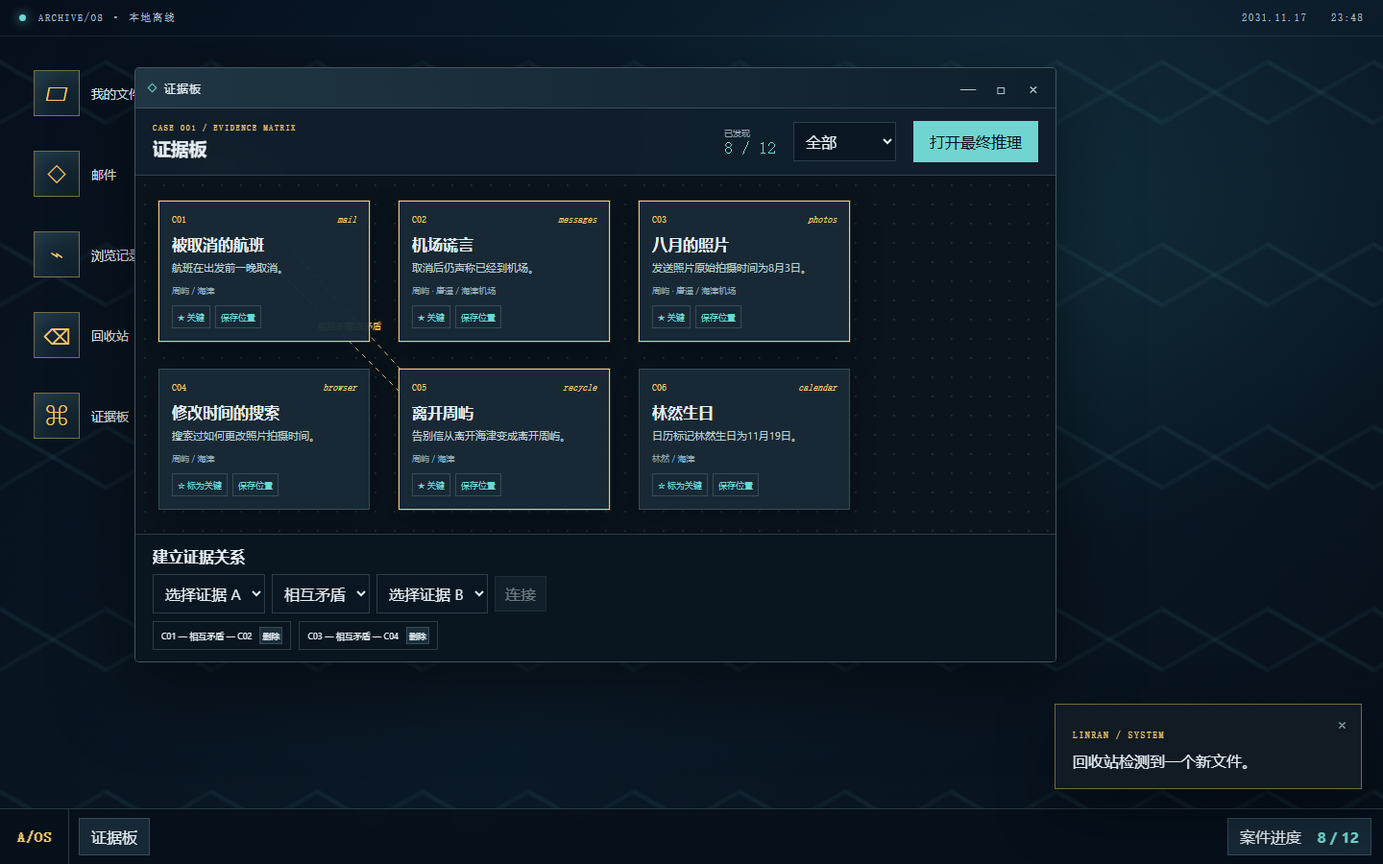
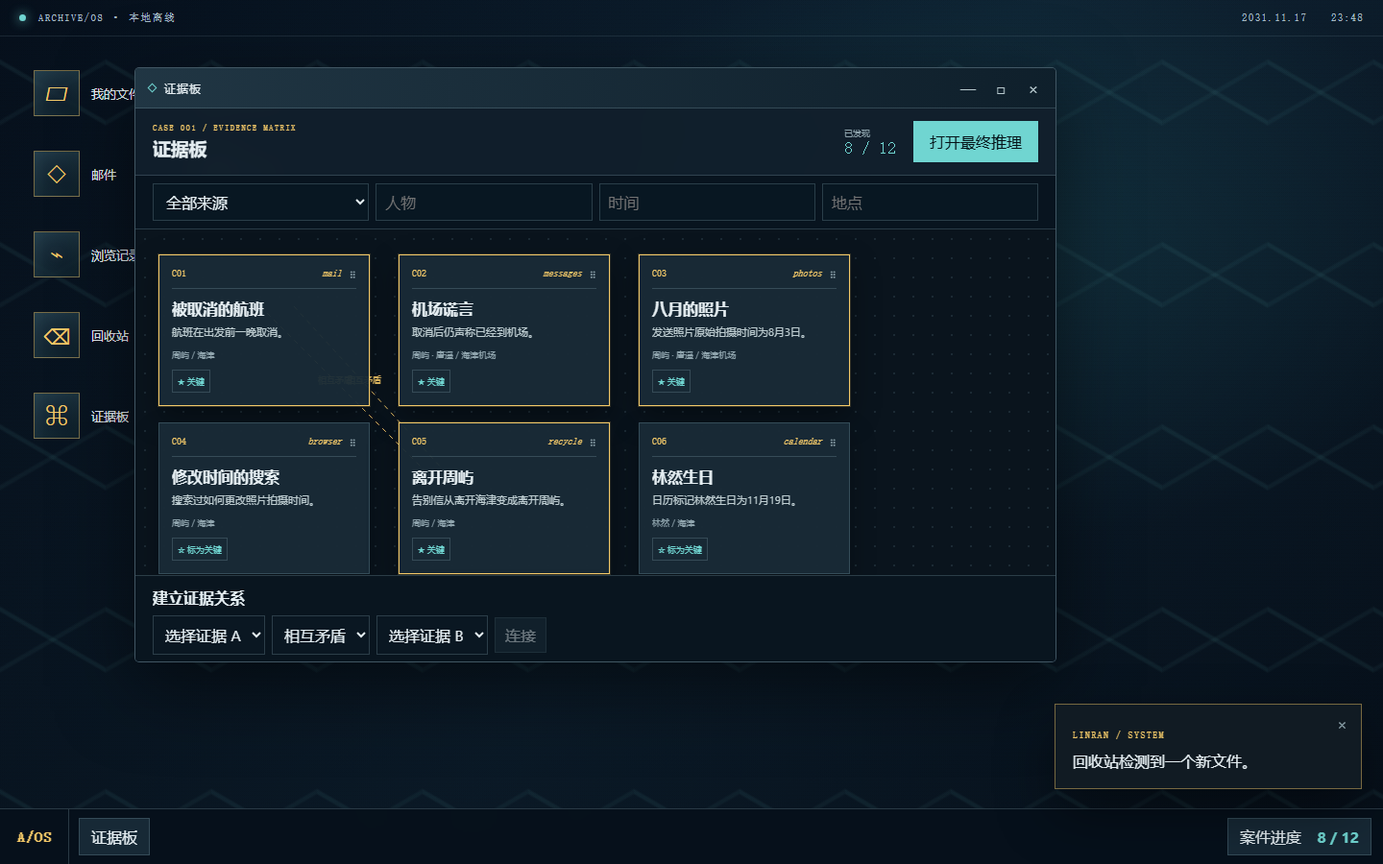
feat: complete evidence interactions and filters

Changed region(s): [[0.0938, 0.2178, 0.625, 0.7467], [0.5625, 0.1556, 0.6562, 0.1867], [0.6875, 0.1556, 0.75, 0.1867]]

diff --git a/src/features/evidence-board/EvidenceBoardApp.tsx b/src/features/evidence-board/EvidenceBoardApp.tsx
@@ -1,14 +1,18 @@
-import { useMemo, useState } from 'react'
+import { useEffect, useMemo, useState } from 'react'
 import type { EvidenceRelation } from '../../cases/types'
 import { caseDefinition } from '../../cases/case-001/case'
 import { useGameStore } from '../../store/gameStore'
+import { EvidenceCard } from './EvidenceCard'
+import { filterEvidenceClues } from './evidenceFilters'
 
 export function EvidenceBoardApp() {
   const { discoveredClueIds, pinnedClueIds, evidenceRelations, togglePinned, addRelation, removeRelation, setCardPosition } = useGameStore()
-  const [source, setSource] = useState('全部'); const [from, setFrom] = useState(''); const [to, setTo] = useState(''); const [type, setType] = useState<EvidenceRelation['type']>('相互矛盾'); const [deducing, setDeducing] = useState(false)
-  const clues = useMemo(() => caseDefinition.clues.filter((clue) => discoveredClueIds.includes(clue.id) && (source === '全部' || clue.source === source)), [discoveredClueIds, source])
-  return <div className="evidence-app" data-testid="evidence-board"><header className="evidence-header"><div><p>CASE 001 / EVIDENCE MATRIX</p><h3>证据板</h3></div><div className="evidence-progress"><span>已发现</span><strong>{discoveredClueIds.length} / 12</strong></div><select aria-label="来源筛选" value={source} onChange={(event) => setSource(event.target.value)}><option>全部</option>{['mail', 'messages', 'photos', 'browser', 'calendar', 'recycle', 'logs', 'files'].map((item) => <option key={item}>{item}</option>)}</select><button className="primary-button" disabled={discoveredClueIds.length < 6} onClick={() => setDeducing(true)}>{discoveredClueIds.length < 6 ? `还需 ${6 - discoveredClueIds.length} 条线索` : '打开最终推理'}</button></header>
-    <div className="evidence-workspace"><svg className="relation-lines" aria-hidden="true">{evidenceRelations.map((relation, index) => <g key={relation.id}><line x1={130 + index * 35} y1="80" x2={300 + index * 20} y2="250" /><text x={190 + index * 30} y="160">{relation.type}</text></g>)}</svg>{clues.map((clue, index) => <article className={`evidence-card ${pinnedClueIds.includes(clue.id) ? 'pinned' : ''}`} key={clue.id} style={{ left: 24 + (index % 3) * 250, top: 26 + Math.floor(index / 3) * 175 }}><div><span>{clue.id}</span><em>{clue.source}</em></div><h4>{clue.title}</h4><p>{clue.summary}</p><small>{clue.people.join(' · ')} / {clue.places.join(' · ')}</small><div className="card-actions"><button aria-label={`标记 ${clue.id} 为关键证据`} onClick={() => togglePinned(clue.id)}>{pinnedClueIds.includes(clue.id) ? '★ 关键' : '☆ 标为关键'}</button><button onClick={() => setCardPosition(clue.id, index * 10, index * 8)}>保存位置</button></div></article>)}</div>
+  const [filters, setFilters] = useState({ source: '', person: '', time: '', place: '' }); const [from, setFrom] = useState(''); const [to, setTo] = useState(''); const [type, setType] = useState<EvidenceRelation['type']>('相互矛盾'); const [deducing, setDeducing] = useState(false)
+  const positions = useGameStore((state) => state.evidenceCardPositions)
+  const clues = useMemo(() => filterEvidenceClues(caseDefinition.clues.filter((clue) => discoveredClueIds.includes(clue.id)), filters), [discoveredClueIds, filters])
+  return <div className="evidence-app" data-testid="evidence-board"><header className="evidence-header"><div><p>CASE 001 / EVIDENCE MATRIX</p><h3>证据板</h3></div><div className="evidence-progress"><span>已发现</span><strong>{discoveredClueIds.length} / 12</strong></div><button className="primary-button" disabled={discoveredClueIds.length < 6} onClick={() => setDeducing(true)}>{discoveredClueIds.length < 6 ? `还需 ${6 - discoveredClueIds.length} 条线索` : '打开最终推理'}</button></header>
+    <div className="evidence-filters"><select aria-label="来源筛选" value={filters.source} onChange={(event) => setFilters((value) => ({ ...value, source: event.target.value }))}><option value="">全部来源</option>{['mail', 'messages', 'photos', 'browser', 'calendar', 'recycle', 'logs', 'files'].map((item) => <option key={item}>{item}</option>)}</select><input aria-label="人物筛选" placeholder="人物" value={filters.person} onChange={(event) => setFilters((value) => ({ ...value, person: event.target.value }))}/><input aria-label="时间筛选" placeholder="时间" value={filters.time} onChange={(event) => setFilters((value) => ({ ...value, time: event.target.value }))}/><input aria-label="地点筛选" placeholder="地点" value={filters.place} onChange={(event) => setFilters((value) => ({ ...value, place: event.target.value }))}/></div>
+    <div className="evidence-workspace"><svg className="relation-lines" aria-hidden="true">{evidenceRelations.map((relation, index) => <g key={relation.id}><line x1={130 + index * 35} y1="80" x2={300 + index * 20} y2="250" /><text x={190 + index * 30} y="160">{relation.type}</text></g>)}</svg>{clues.map((clue, index) => <EvidenceCard key={clue.id} clue={clue} pinned={pinnedClueIds.includes(clue.id)} position={positions[clue.id] ?? { x: 24 + (index % 3) * 250, y: 26 + Math.floor(index / 3) * 175 }} onToggle={() => togglePinned(clue.id)} onMove={(x, y) => setCardPosition(clue.id, x, y)} />)}</div>
     <section className="relation-builder"><h4>建立证据关系</h4><select aria-label="关系起点" value={from} onChange={(event) => setFrom(event.target.value)}><option value="">选择证据 A</option>{discoveredClueIds.map((id) => <option key={id}>{id}</option>)}</select><select aria-label="关系类型" value={type} onChange={(event) => setType(event.target.value as EvidenceRelation['type'])}>{['相互矛盾', '相互支持', '时间先后', '同一人物'].map((item) => <option key={item}>{item}</option>)}</select><select aria-label="关系终点" value={to} onChange={(event) => setTo(event.target.value)}><option value="">选择证据 B</option>{discoveredClueIds.map((id) => <option key={id}>{id}</option>)}</select><button disabled={!from || !to || from === to} onClick={() => { addRelation(from, to, type); setFrom(''); setTo('') }}>连接</button><ul>{evidenceRelations.map((relation) => <li key={relation.id}><span>{relation.from} — {relation.type} — {relation.to}</span><button aria-label={`删除关系 ${relation.from} ${relation.to}`} onClick={() => removeRelation(relation.id)}>删除</button></li>)}</ul></section>
     {deducing && <DeductionDialog onClose={() => setDeducing(false)} />}
   </div>
@@ -17,8 +21,8 @@ export function EvidenceBoardApp() {
 function DeductionDialog({ onClose }: { onClose: () => void }) {
   const { discoveredClueIds, pinnedClueIds, evidenceRelations, deductionResult, submit } = useGameStore()
   const [answers, setAnswers] = useState<Record<string, string>>({}); const [note, setNote] = useState(''); const [result, setResult] = useState(deductionResult)
+  useEffect(() => { const close = (event: KeyboardEvent) => { if (event.key === 'Escape') onClose() }; window.addEventListener('keydown', close); return () => window.removeEventListener('keydown', close) }, [onClose])
   const contradictionCount = evidenceRelations.filter((relation) => relation.type === '相互矛盾').length
-  if (result) return <div className="modal-backdrop" role="dialog" aria-modal="true" aria-label="推理结果"><article className="deduction-card result-card"><button className="modal-close" aria-label="关闭推理结果" onClick={onClose}>×</button><p className="eyebrow">ARCHIVE RECONSTRUCTION</p><div className="score-ring"><strong>{result.score}</strong><span>/100</span></div><h2>{result.level}</h2><div className="score-breakdown"><span>核心判断 {result.answerScore}/65</span><span>证据覆盖 {result.evidenceScore}/30</span><span>矛盾关系 {result.relationScore}/5</span></div><p>发现线索：{discoveredClueIds.length}/12 · 关键证据：{pinnedClueIds.join('、') || '未选择'}</p>{result.note && <blockquote>{result.note}</blockquote>}<div className="ending"><p>正在核对系统日志……</p><p>检测到新的本地会话。</p><p>用户 LINRAN 登录成功。</p><strong>{caseDefinition.ending}</strong></div></article></div>
+  if (result) return <div className="modal-backdrop" role="dialog" aria-modal="true" aria-label="推理结果"><article className="deduction-card result-card"><button className="modal-close" aria-label="关闭推理结果" onClick={onClose}>×</button><p className="eyebrow">ARCHIVE RECONSTRUCTION</p><div className="score-ring"><strong>{result.score}</strong><span>/100</span></div><h2>{result.level}</h2><div className="score-breakdown"><span>核心判断 {result.answerScore}/65</span><span>证据覆盖 {result.evidenceScore}/30</span><span>矛盾关系 {result.relationScore}/5</span></div><p>发现线索：{discoveredClueIds.length}/12 · 核心线索：{discoveredClueIds.filter((id) => caseDefinition.coreEvidenceIds.includes(id)).length}/{caseDefinition.coreEvidenceIds.length}</p><p>玩家选择：{pinnedClueIds.join('、') || '未选择'} · 忽略的关键线索：{caseDefinition.coreEvidenceIds.filter((id) => !pinnedClueIds.includes(id)).join('、') || '无'}</p>{result.note && <blockquote>{result.note}</blockquote>}<div className="ending"><p>正在核对系统日志……</p><p>检测到新的本地会话。</p><p>用户 LINRAN 登录成功。</p><strong>{caseDefinition.ending}</strong></div></article></div>
   return <div className="modal-backdrop" role="dialog" aria-modal="true" aria-label="最终推理"><form className="deduction-card" onSubmit={(event) => { event.preventDefault(); const ordered = caseDefinition.questions.map((question) => answers[question.id] ?? ''); setResult(submit(ordered, note)) }}><button type="button" className="modal-close" aria-label="关闭最终推理" onClick={onClose}>×</button><p className="eyebrow">FINAL DEDUCTION</p><h2>重建最后一次登录</h2>{caseDefinition.questions.map((question, questionIndex) => <fieldset key={question.id}><legend><span>0{questionIndex + 1}</span>{question.prompt}</legend>{question.options.map((option) => <label key={option.id}><input required type="radio" name={question.id} value={option.id} checked={answers[question.id] === option.id} onChange={() => setAnswers((state) => ({ ...state, [question.id]: option.id }))} />{option.label}</label>)}</fieldset>)}<section className="deduction-evidence"><h3>你的关键证据</h3><p>{pinnedClueIds.length}/6：{pinnedClueIds.join('、') || '请先在证据板标记关键证据'}</p><p>矛盾关系：{contradictionCount} 组</p></section><label className="note-field">个人推理（只保存在本地）<textarea value={note} onChange={(event) => setNote(event.target.value)} /></label><button className="primary-button" disabled={!pinnedClueIds.length || contradictionCount < 1}>提交推理</button></form></div>
 }
-

diff --git a/src/features/apps/ArchiveApps.tsx b/src/features/apps/ArchiveApps.tsx
@@ -1,11 +1,11 @@
-import { useMemo, useState } from 'react'
+import { useEffect, useMemo, useState } from 'react'
 import { caseDefinition } from '../../cases/case-001/case'
 import { useGameStore } from '../../store/gameStore'
 
 export function PhotosApp() {
-  const [index, setIndex] = useState(0); const [metadata, setMetadata] = useState(false); const [zoom, setZoom] = useState(1)
-  const photo = caseDefinition.photos[index]!; const investigate = useGameStore((state) => state.investigate)
-  return <div className="photo-app"><div className="photo-stage"><img src={photo.image} alt="虚构海津机场候机区" style={{ transform: `scale(${zoom})` }} /></div><aside><p className="document-meta">{photo.title}</p><div className="toolbar"><button onClick={() => { setIndex((index - 1 + 2) % 2); setMetadata(false) }}>上一张</button><button onClick={() => { setIndex((index + 1) % 2); setMetadata(false) }}>下一张</button><button onClick={() => setZoom(Math.max(.7, zoom - .15))}>−</button><button onClick={() => setZoom(Math.min(1.8, zoom + .15))}>＋</button></div><button className="primary-button" onClick={() => { setMetadata(true); investigate({ type: 'VIEW_METADATA', itemId: photo.id }) }}>查看元数据</button>{metadata && <dl className="metadata"><dt>原始拍摄</dt><dd>{photo.metadata.capturedAt}</dd><dt>导出文件</dt><dd>{photo.metadata.exportedAt}</dd><dt>设备</dt><dd>{photo.metadata.camera}</dd></dl>}</aside></div>
+  const [index, setIndex] = useState(0); const [metadata, setMetadata] = useState(false); const [properties, setProperties] = useState(false); const [zoom, setZoom] = useState(1)
+  const photo = caseDefinition.photos[index]!; const investigate = useGameStore((state) => state.investigate); const togglePinned = useGameStore((state) => state.togglePinned); const discovered = useGameStore((state) => state.discoveredClueIds); const pinned = useGameStore((state) => state.pinnedClueIds)
+  return <div className="photo-app"><div className="photo-stage"><img src={photo.image} alt="虚构海津机场候机区" style={{ transform: `scale(${zoom})` }} /></div><aside><p className="document-meta">{photo.title}</p><div className="toolbar"><button onClick={() => { setIndex((index - 1 + 2) % 2); setMetadata(false); setProperties(false) }}>上一张</button><button onClick={() => { setIndex((index + 1) % 2); setMetadata(false); setProperties(false) }}>下一张</button><button onClick={() => setZoom(Math.max(.7, zoom - .15))}>−</button><button onClick={() => setZoom(Math.min(1.8, zoom + .15))}>＋</button></div><div className="toolbar"><button onClick={() => setProperties(!properties)}>查看属性</button><button className="primary-button" onClick={() => { setMetadata(true); investigate({ type: 'VIEW_METADATA', itemId: photo.id }) }}>查看元数据</button><button disabled={photo.id !== 'photo-sent' || !discovered.includes('C03')} onClick={() => togglePinned('C03')}>{pinned.includes('C03') ? '已加入证据板' : '加入证据板'}</button></div>{properties && <dl className="metadata"><dt>文件格式</dt><dd>本地 SVG 图像</dd><dt>档案编号</dt><dd>{photo.id}</dd></dl>}{metadata && <dl className="metadata"><dt>原始拍摄</dt><dd>{photo.metadata.capturedAt}</dd><dt>导出文件</dt><dd>{photo.metadata.exportedAt}</dd><dt>设备</dt><dd>{photo.metadata.camera}</dd></dl>}</aside></div>
 }
 
 export function BrowserApp() {
@@ -20,19 +20,20 @@ export function CalendarApp() {
 }
 
 export function RecycleApp() {
-  const unlocked = useGameStore((state) => state.unlockedItemIds); const investigate = useGameStore((state) => state.investigate); const [selected, setSelected] = useState<string | null>(null)
-  const files = caseDefinition.files.filter((file) => file.folder === '回收站' && (!file.locked || unlocked.includes(file.id)))
+  const unlocked = useGameStore((state) => state.unlockedItemIds); const investigate = useGameStore((state) => state.investigate); const [selected, setSelected] = useState<string | null>(null); const [restored, setRestored] = useState<string[]>([])
+  const files = caseDefinition.files.filter((file) => file.folder === '回收站' && (!file.locked || unlocked.includes(file.id)) && !restored.includes(file.id))
   const active = files.find((file) => file.id === selected)
-  return <div className="split-app two-column"><section className="app-list">{files.map((file) => <button key={file.id} onClick={() => { setSelected(file.id); if (file.id === 'farewell-v3') investigate({ type: 'COMPARE_ITEMS', itemId: file.id }) }}><span><strong>{file.name}</strong><small>可预览 · 可恢复</small></span></button>)}</section><article className="detail-pane document-view">{active ? <><div className="document-meta">回收站预览</div><h3>{active.name}</h3><p>{active.content}</p><button className="secondary-button">恢复到原位置</button></> : <div className="empty-state">比较三个版本，看看“离开”的对象如何变化。</div>}</article></div>
+  return <div className="split-app two-column"><section className="app-list">{files.map((file) => <button key={file.id} onClick={() => { setSelected(file.id); if (file.id === 'farewell-v3') investigate({ type: 'COMPARE_ITEMS', itemId: file.id }) }}><span><strong>{file.name}</strong><small>可预览 · 可恢复</small></span></button>)}{restored.length > 0 && <p className="restored-note">已恢复 {restored.length} 个文件</p>}</section><article className="detail-pane document-view">{active ? <><div className="document-meta">回收站预览</div><h3>{active.name}</h3><p>{active.content}</p><button className="secondary-button" onClick={() => { setRestored((items) => [...items, active.id]); setSelected(null) }}>恢复到原位置</button></> : <div className="empty-state">比较三个版本，看看“离开”的对象如何变化。</div>}</article></div>
 }
 
 export function LogsApp() {
-  const [user, setUser] = useState('全部'); const [type, setType] = useState('全部'); const investigate = useGameStore((state) => state.investigate)
-  const logs = caseDefinition.logs.filter((log) => (user === '全部' || log.user === user) && (type === '全部' || log.eventType === type))
-  return <div className="single-app logs-app"><div className="app-toolbar"><select aria-label="用户筛选" value={user} onChange={(event) => setUser(event.target.value)}>{['全部', 'ZHOU_YU', 'LINRAN', 'SYSTEM'].map((item) => <option key={item}>{item}</option>)}</select><select aria-label="事件类型筛选" value={type} onChange={(event) => setType(event.target.value)}>{['全部', '登录', '账户', '文件', '异常'].map((item) => <option key={item}>{item}</option>)}</select></div><div className="log-table"><div className="log-head"><span>时间</span><span>用户</span><span>类型</span><span>事件</span></div>{logs.map((log) => <button key={log.id} onClick={() => investigate({ type: 'VIEW_LOG', itemId: log.id })}><time>{log.time}</time><b>{log.user}</b><em>{log.eventType}</em><span>{log.detail}</span></button>)}</div></div>
+  const [user, setUser] = useState('全部'); const [type, setType] = useState('全部'); const [time, setTime] = useState('全部'); const investigate = useGameStore((state) => state.investigate)
+  const logs = caseDefinition.logs.filter((log) => (user === '全部' || log.user === user) && (type === '全部' || log.eventType === type) && (time === '全部' || log.time.startsWith(time)))
+  return <div className="single-app logs-app"><div className="app-toolbar"><select aria-label="时间筛选" value={time} onChange={(event) => setTime(event.target.value)}>{['全部', '2031-11-17', '2031-10-08'].map((item) => <option key={item}>{item}</option>)}</select><select aria-label="用户筛选" value={user} onChange={(event) => setUser(event.target.value)}>{['全部', 'ZHOU_YU', 'LINRAN', 'SYSTEM'].map((item) => <option key={item}>{item}</option>)}</select><select aria-label="事件类型筛选" value={type} onChange={(event) => setType(event.target.value)}>{['全部', '登录', '账户', '文件', '异常'].map((item) => <option key={item}>{item}</option>)}</select></div><div className="log-table"><div className="log-head"><span>时间</span><span>用户</span><span>类型</span><span>事件</span></div>{logs.map((log) => <button key={log.id} onClick={() => investigate({ type: 'VIEW_LOG', itemId: log.id })}><time>{log.time}</time><b>{log.user}</b><em>{log.eventType}</em><span>{log.detail}</span></button>)}</div></div>
 }
 
 export function SettingsApp() {
   const { settings, updateSettings, resetCase } = useGameStore(); const [confirm, setConfirm] = useState(false)
+  useEffect(() => { if (!confirm) return; const close = (event: KeyboardEvent) => { if (event.key === 'Escape') setConfirm(false) }; window.addEventListener('keydown', close); return () => window.removeEventListener('keydown', close) }, [confirm])
   return <div className="settings-app"><header><p>ARCHIVE/OS</p><h3>系统与调查设置</h3></header><label><span><b>系统音效</b><small>程序化提示音，不加载外部音频</small></span><input type="checkbox" checked={settings.sound} onChange={(event) => updateSettings({ sound: event.target.checked })} /></label><label><span><b>动态异常效果</b><small>关闭时保留必要剧情文字</small></span><input type="checkbox" checked={settings.anomalies} onChange={(event) => updateSettings({ anomalies: event.target.checked })} /></label><label><span><b>扫描线强度</b><small>{Math.round(settings.scanlines * 100)}%</small></span><input type="range" min="0" max="1" step=".05" value={settings.scanlines} onChange={(event) => updateSettings({ scanlines: Number(event.target.value) })} /></label><details><summary>操作说明</summary><p>双击桌面图标打开应用；拖动标题栏移动窗口；调查具体条目才会发现线索；发现六条线索后可提交推理。</p></details><button className="danger-button" onClick={() => setConfirm(true)}>重置案件</button>{confirm && <div className="modal-backdrop" role="dialog" aria-modal="true" aria-label="确认重置案件"><div className="confirm-card"><h3>确认重置案件？</h3><p>所有线索、关系和推理会被清除，显示偏好将保留。</p><div><button autoFocus onClick={() => setConfirm(false)}>取消</button><button className="danger-button" onClick={() => { resetCase(); setConfirm(false) }}>再次确认重置</button></div></div></div>}</div>
 }

diff --git a/e2e/player-journey.spec.ts b/e2e/player-journey.spec.ts
@@ -67,6 +67,12 @@ test('completes the first archive from boot to deduction', async ({ page }) => {
   await page.getByLabel('关系起点').selectOption('C03'); await page.getByLabel('关系终点').selectOption('C04'); await page.getByRole('button', { name: '连接' }).click()
   await page.locator('.evidence-workspace').evaluate((element) => { element.scrollTop = 0 })
   await page.screenshot({ path: 'docs/images/evidence-board.png', fullPage: true })
+  const firstCard = page.locator('.evidence-card').first()
+  const beforeDrag = await firstCard.boundingBox()
+  if (!beforeDrag) throw new Error('Evidence card has no bounding box')
+  await firstCard.locator('.card-drag-handle').dragTo(page.getByTestId('evidence-board'), { targetPosition: { x: 620, y: 300 } })
+  const afterDrag = await firstCard.boundingBox()
+  expect(afterDrag?.x).not.toBe(beforeDrag.x)
   await page.getByRole('button', { name: '打开最终推理' }).click()
   await page.getByLabel('主动制造已经离开的假象').check()
   await page.getByLabel('周屿的住所').check()
@@ -83,6 +89,7 @@ test('restores progress after refresh and resets safely', async ({ page }) => {
   await openApp(page, '邮件'); await page.getByRole('button', { name: /HX217 订单取消成功/ }).click()
   await page.reload(); await page.getByRole('button', { name: '跳过启动' }).click(); await page.getByRole('button', { name: '恢复上次会话' }).click()
   await expect(page.getByText('1 / 12')).toBeVisible()
-  await openApp(page, '设置'); await page.getByRole('button', { name: '重置案件' }).click(); await page.getByRole('button', { name: '再次确认重置' }).click()
+  await openApp(page, '设置'); await page.getByRole('button', { name: '重置案件' }).click(); await page.keyboard.press('Escape'); await expect(page.getByRole('dialog', { name: '确认重置案件' })).toHaveCount(0)
+  await page.getByRole('button', { name: '重置案件' }).click(); await page.getByRole('button', { name: '再次确认重置' }).click()
   await expect(page.getByText('0 / 12')).toBeVisible()
 })

diff --git a/src/features/evidence-board/EvidenceCard.tsx b/src/features/evidence-board/EvidenceCard.tsx
@@ -1,0 +1,21 @@
+import { useRef } from 'react'
+import type { PointerEvent } from 'react'
+import type { ClueDefinition } from '../../cases/types'
+
+export function EvidenceCard({ clue, pinned, position, onToggle, onMove }: { clue: ClueDefinition; pinned: boolean; position: { x: number; y: number }; onToggle: () => void; onMove: (x: number, y: number) => void }) {
+  const drag = useRef({ pointerId: -1, x: 0, y: 0, originX: 0, originY: 0 })
+  const start = (event: PointerEvent<HTMLButtonElement>) => {
+    drag.current = { pointerId: event.pointerId, x: event.clientX, y: event.clientY, originX: position.x, originY: position.y }
+    event.currentTarget.setPointerCapture?.(event.pointerId)
+  }
+  const move = (event: PointerEvent<HTMLButtonElement>) => {
+    if (drag.current.pointerId !== event.pointerId) return
+    onMove(Math.max(0, Math.min(720, drag.current.originX + event.clientX - drag.current.x)), Math.max(0, Math.min(380, drag.current.originY + event.clientY - drag.current.y)))
+  }
+  return <article className={`evidence-card ${pinned ? 'pinned' : ''}`} style={{ left: position.x, top: position.y }}>
+    <button className="card-drag-handle" aria-label={`拖动线索 ${clue.id}`} onPointerDown={start} onPointerMove={move} onPointerUp={() => { drag.current.pointerId = -1 }} onPointerCancel={() => { drag.current.pointerId = -1 }}><span>{clue.id}</span><em>{clue.source}</em><i>⠿</i></button>
+    <h4>{clue.title}</h4><p>{clue.summary}</p><small>{clue.people.join(' · ')} / {clue.places.join(' · ')}</small>
+    <div className="card-actions"><button aria-label={`标记 ${clue.id} 为关键证据`} onClick={onToggle}>{pinned ? '★ 关键' : '☆ 标为关键'}</button></div>
+  </article>
+}
+

diff --git a/src/styles/evidence.css b/src/styles/evidence.css
@@ -1,0 +1,53 @@
+.evidence-app {
+  grid-template-rows: auto auto minmax(360px, 1fr) auto;
+}
+
+.evidence-filters {
+  display: grid;
+  padding: 8px 18px;
+  border-bottom: 1px solid var(--line);
+  background: rgb(8 20 30 / 92%);
+  grid-template-columns: repeat(4, minmax(100px, 1fr));
+  gap: 7px;
+}
+
+.evidence-filters input,
+.evidence-filters select {
+  min-width: 0;
+  padding: 7px 9px;
+  color: var(--ink);
+  border: 1px solid var(--line);
+  background: #081722;
+}
+
+.card-drag-handle {
+  display: grid;
+  width: 100%;
+  padding: 0 0 7px;
+  color: var(--amber);
+  border: 0;
+  border-bottom: 1px solid var(--line);
+  background: transparent;
+  grid-template-columns: 1fr 1fr auto;
+  font: 10px monospace;
+  text-align: left;
+  touch-action: none;
+  cursor: grab;
+}
+
+.card-drag-handle em {
+  text-align: right;
+}
+
+.card-drag-handle i {
+  margin-left: 8px;
+  color: var(--muted);
+  font-style: normal;
+}
+
+.restored-note {
+  padding: 10px 14px;
+  color: var(--cyan);
+  font-size: 11px;
+}
+

diff --git a/src/features/evidence-board/evidenceFilters.test.ts b/src/features/evidence-board/evidenceFilters.test.ts
@@ -1,0 +1,12 @@
+import { describe, expect, it } from 'vitest'
+import { caseDefinition } from '../../cases/case-001/case'
+import { filterEvidenceClues } from './evidenceFilters'
+
+describe('filterEvidenceClues', () => {
+  const clues = caseDefinition.clues
+  it('filters independently by source, person, time and place', () => {
+    expect(filterEvidenceClues(clues, { source: 'mail', person: '', time: '', place: '' }).map((clue) => clue.id)).toEqual(['C01', 'C09', 'C11'])
+    expect(filterEvidenceClues(clues, { source: '', person: '林然', time: '', place: '' }).map((clue) => clue.id)).toEqual(['C06', 'C07', 'C08'])
+    expect(filterEvidenceClues(clues, { source: '', person: '', time: '23:48', place: '住所' }).map((clue) => clue.id)).toEqual(['C08'])
+  })
+})

diff --git a/src/features/evidence-board/evidenceFilters.ts b/src/features/evidence-board/evidenceFilters.ts
@@ -1,0 +1,14 @@
+import type { ClueDefinition } from '../../cases/types'
+
+export interface EvidenceFilters { source: string; person: string; time: string; place: string }
+
+export function filterEvidenceClues(clues: ClueDefinition[], filters: EvidenceFilters): ClueDefinition[] {
+  const includes = (values: string[], query: string) => !query || values.some((value) => value.includes(query))
+  return clues.filter((clue) =>
+    (!filters.source || clue.source === filters.source) &&
+    includes(clue.people, filters.person) &&
+    includes(clue.times, filters.time) &&
+    includes(clue.places, filters.place),
+  )
+}
+

diff --git a/src/main.tsx b/src/main.tsx
@@ -4,6 +4,7 @@ import { App } from './app/App'
 import './styles/tokens.css'
 import './styles/global.css'
 import './styles/game.css'
+import './styles/evidence.css'
 
 const root = document.getElementById('root')
 
